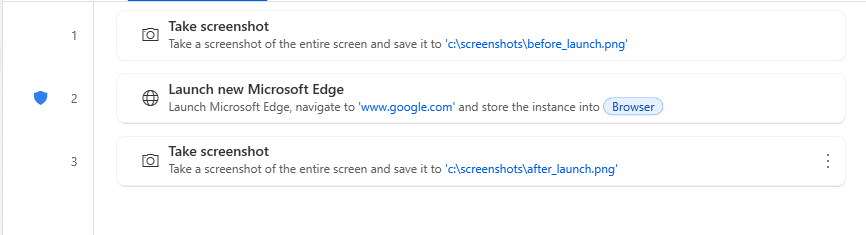
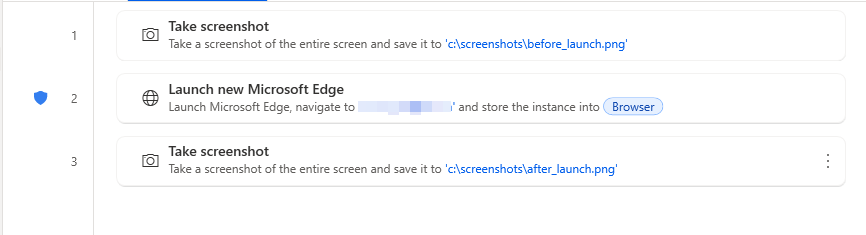
blur the URL in the images

Changed region(s): [[0.4053, 0.417, 0.53, 0.5064]]

diff --git a/support/power-platform/power-automate/desktop-flows/troubleshoot-unattended-runs-with-screenshots.md b/support/power-platform/power-automate/desktop-flows/troubleshoot-unattended-runs-with-screenshots.md
@@ -2,7 +2,7 @@
 title: Troubleshoot Failed Unattended Runs Using Screenshots
 description: Provides troubleshooting steps to identify and resolve issues causing unattended runs to fail in Microsoft Power Automate.
 ms.reviewer: alarnaud
-ms.date: 05/15/2025
+ms.date: 05/19/2025
 ms.custom: sap:Desktop flows\Unattended flow runtime errors
 ---
 # Troubleshoot failed unattended runs using screenshots
